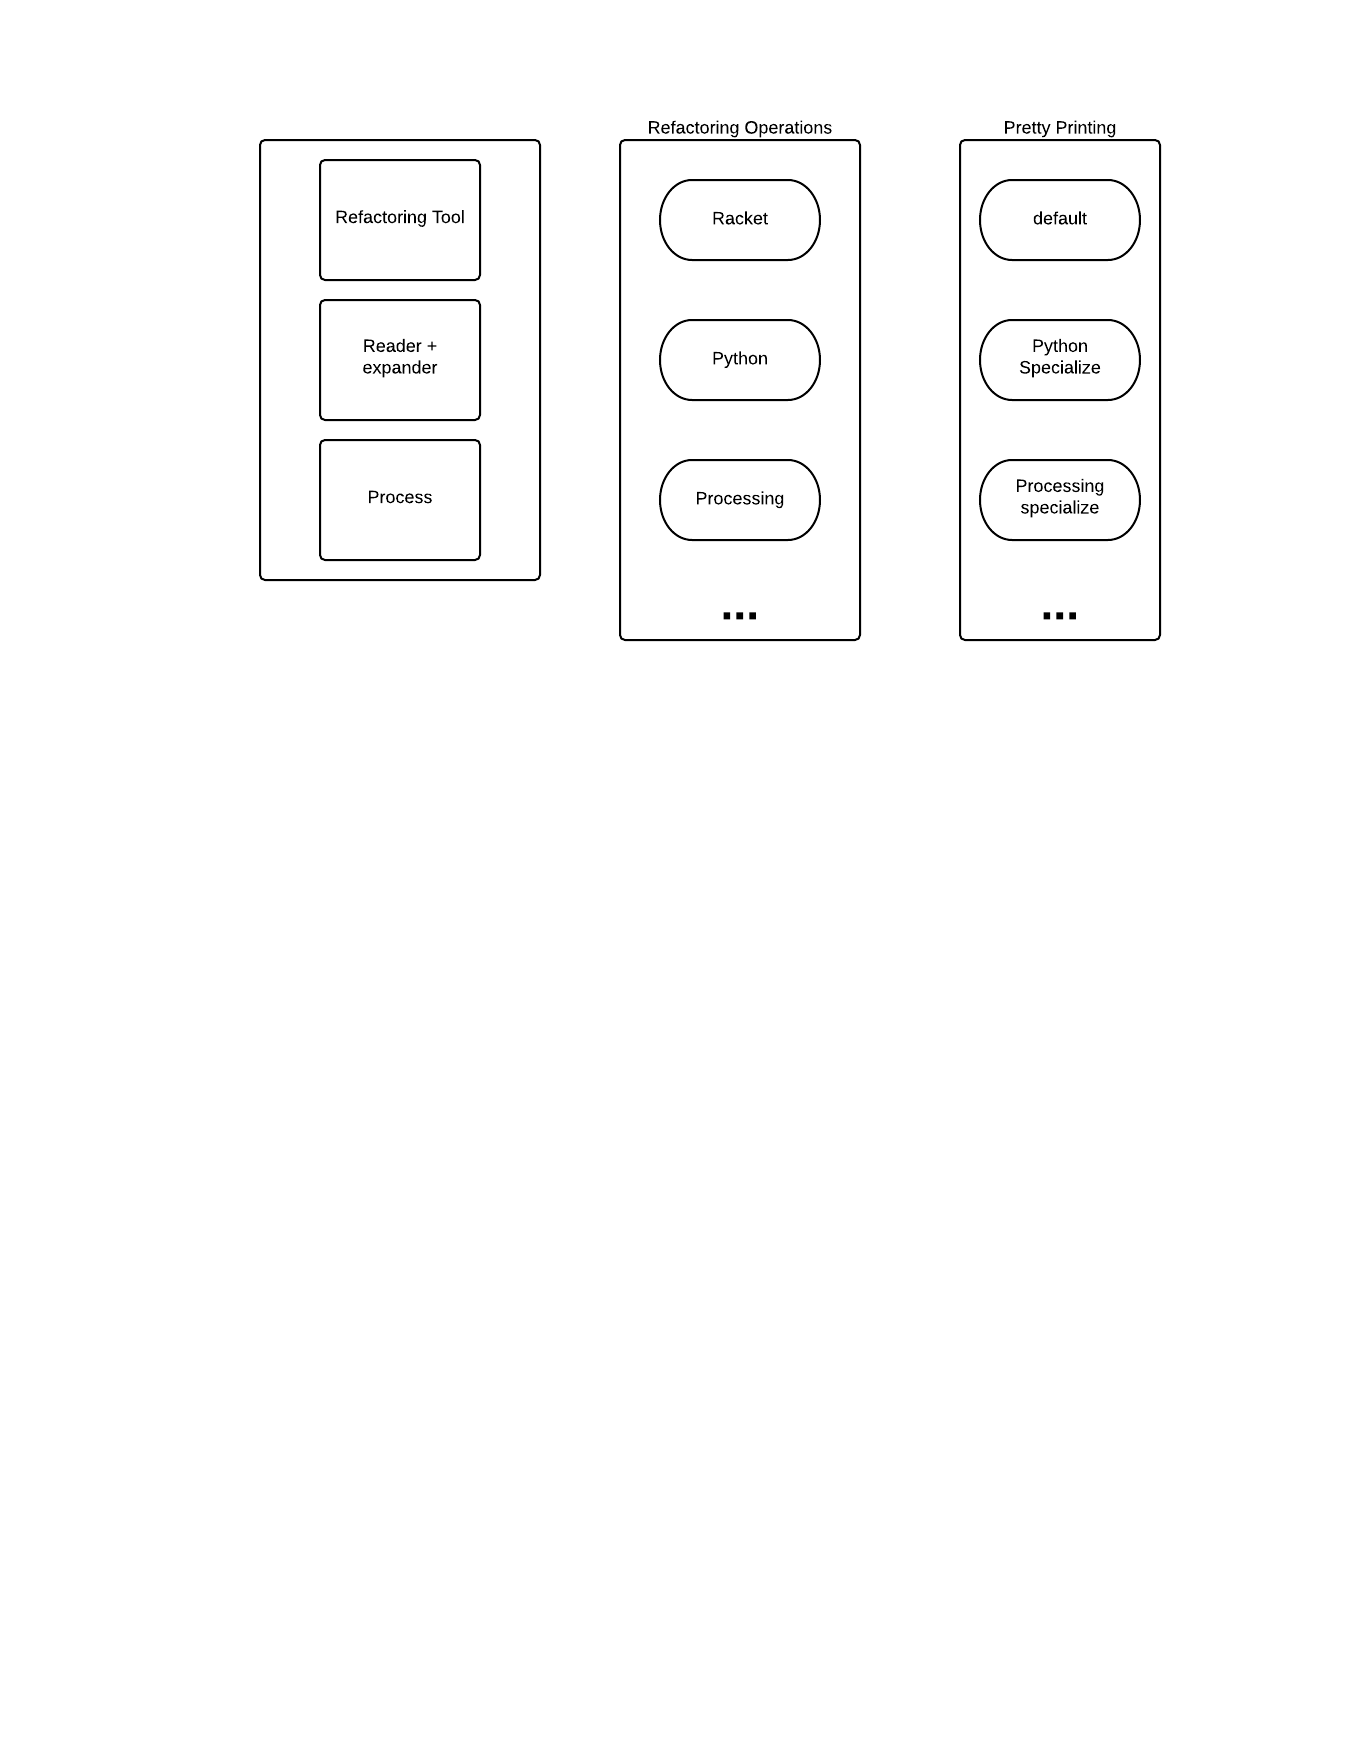
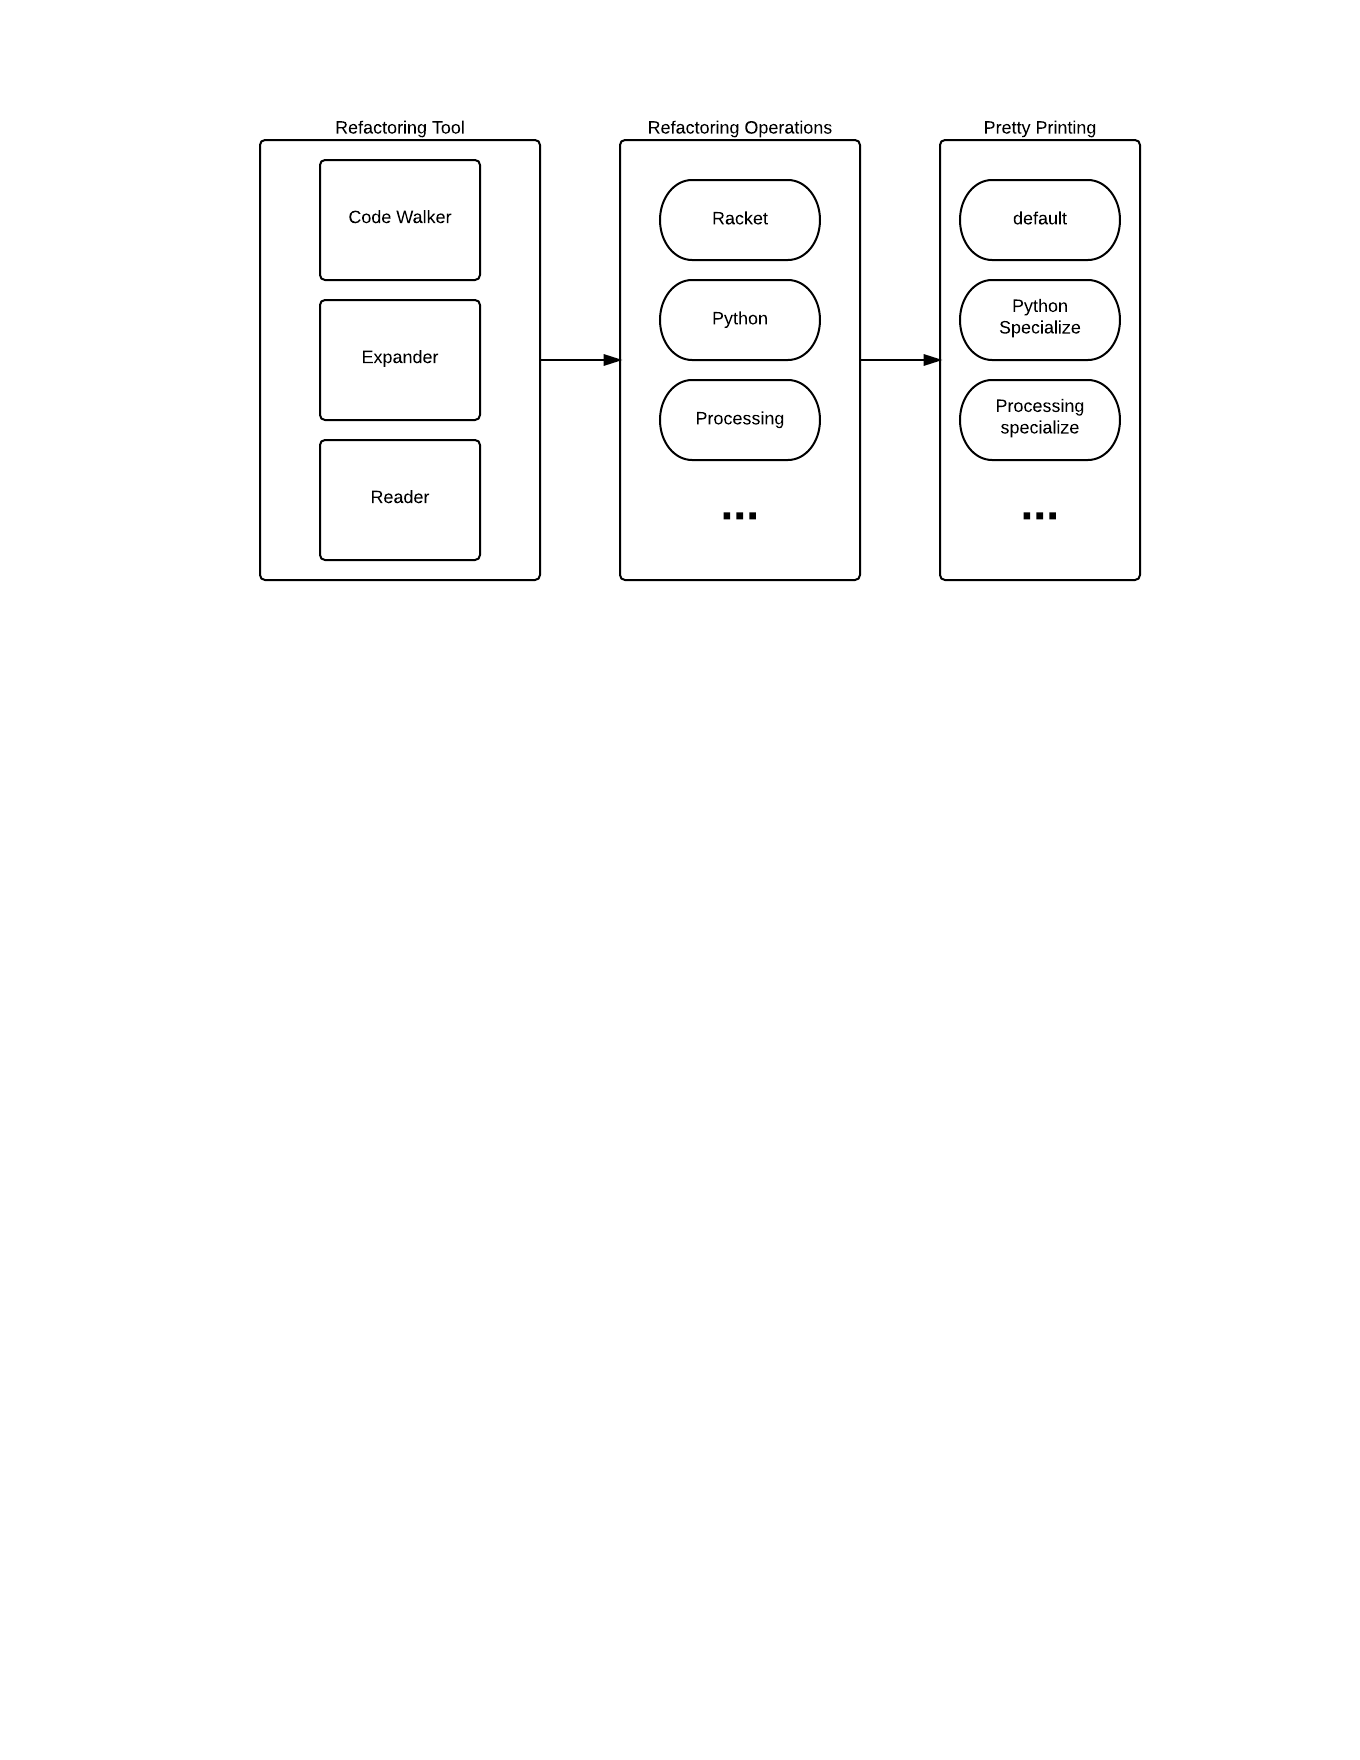
added improved architecture. improved description

diff --git a/Paper-ELS/DevelopedWork/Framework.tex b/Paper-ELS/DevelopedWork/Framework.tex
@@ -31,9 +31,27 @@ Python was chosen because there is already an implementation of Python for the
  refactoring operations for new languages when compared with the necessary effort to create
  the refactoring operations directly for that language.
 
- Framework architecture.
-(link in drive)
+Ideally we should only have refactoring operations for the meta-language which represents
+all languages. And then specialized pretty printers to output the changes in the
+desireble language.
+However, since we instead of having a general representation that can represent all the languages
+supported we have the languages represented in Racket's syntax objects we can not do that.
 
+We indeed have a meta-language that abstracts all the supported languages and
+we have trully language independent refactoring operations. However, it is only
+for a small set of refactoring opeartions, the more simple ones. We did it like
+this because we would lose some of the possible refactoring operations or we would
+have to have a lot of concerns. And since we have a restrict amount of time, having
+a meta-language that have language-independent refactoring operations combined
+with the "semi-meta-languages" that have similar refactoring operations but
+language dependent and therefore more specialized.
+
+With this we do not have a language-independent framework. However we have a framework
+for refactoring operations, even tough that is more aimed at dynamic and functional languages.
+Framework architecture.
+\begin{figure}[h]
+\includegraphics[width=8cm]{../framework-arch.png}
+\end{figure}
 
 \subsection{Statement based languages}
 This Framework was build with a base of expression based languages. The flow of
